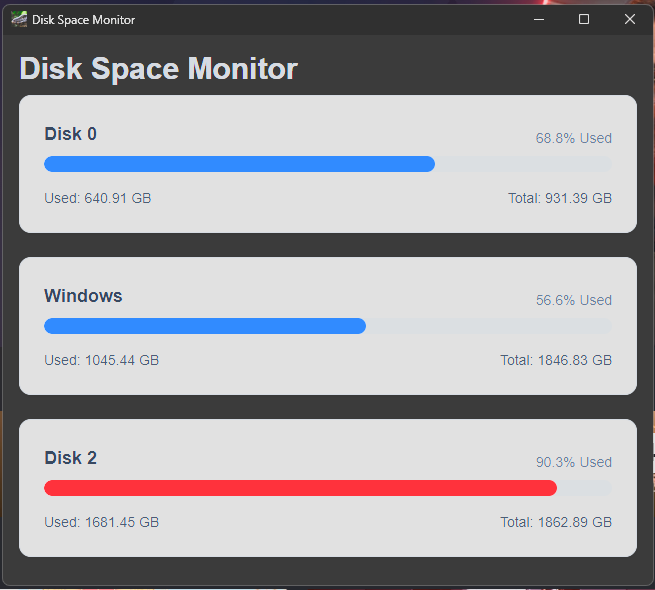
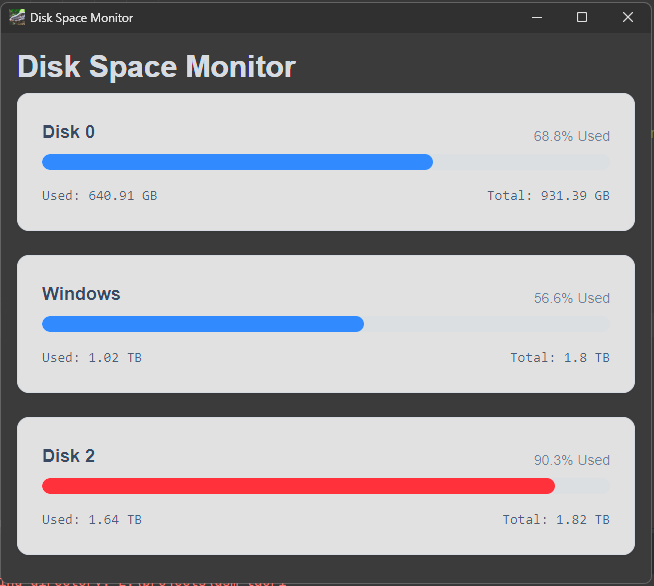
Refactors display to handle TB, updates screenshot

diff --git a/src/dsm-tauri/src/App.tsx b/src/dsm-tauri/src/App.tsx
@@ -23,6 +23,18 @@ function App() {
         loadDisks();
     }, []);
 
+    const formatBytes = (bytes: number, decimals = 2) => {
+        if (bytes === 0) return '0 Bytes';
+
+        const k = 1024;
+        const dm = decimals < 0 ? 0 : decimals;
+        const sizes = ['Bytes', 'KB', 'MB', 'GB', 'TB', 'PB'];
+
+        const i = Math.floor(Math.log(bytes) / Math.log(k));
+
+        return parseFloat((bytes / Math.pow(k, i)).toFixed(dm)) + ' ' + sizes[i];
+    };
+
   return (
       <main className="container p-8 max-w-2xl mx-auto">
           <h1 className="text-3xl font-bold text-slate-200 mb-8">Disk Space Monitor</h1>
@@ -54,13 +66,9 @@ function App() {
                               />
                           </div>
 
-                          <div className="flex justify-between text-sm text-slate-600">
-                <span>
-                  Used: {(usedSpace / 1024 / 1024 / 1024).toFixed(2)} GB
-                </span>
-                              <span>
-                  Total: {(disk.total_space / 1024 / 1024 / 1024).toFixed(2)} GB
-                </span>
+                          <div className="flex justify-between text-sm text-slate-600 font-mono">
+                              <span>Used: {formatBytes(usedSpace)}</span>
+                              <span>Total: {formatBytes(disk.total_space)}</span>
                           </div>
                       </div>
                   );

diff --git a/src/dsm-tauri/src-tauri/src/lib.rs b/src/dsm-tauri/src-tauri/src/lib.rs
@@ -55,7 +55,7 @@ pub fn run() {
                         visible = true;
                     }
 
-                    // Adjust speed of blink here (500ms = 2 blinks per second)
+                    // 500ms = 2 blinks per second
                     tokio::time::sleep(Duration::from_millis(500)).await;
                 }
             });
